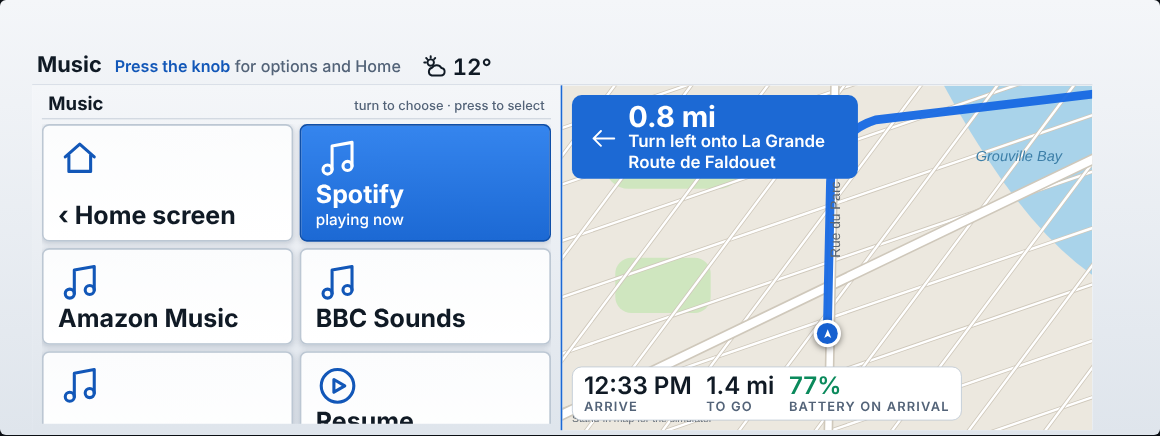
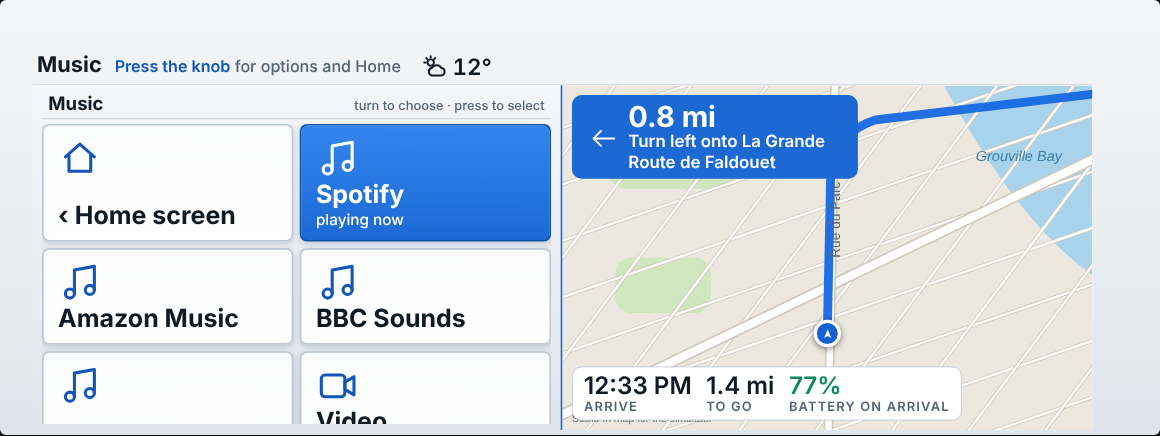
Make Settings a card menu, and fix Resume's bottom-left placement
Settings was still a scrolling list despite the earlier switch to
cards for sub-menus - it now opens as cards (Display/Car colour/
Battery/Video), matching Call and Music.

The Resume card's position was unreliable: it was simply the last
item pushed into the array, so a 2-column grid with row-major
auto-flow only puts it bottom-left when the preceding item count is
even - with an odd count (e.g. 3 apps) it lands bottom-right instead.
Verified with an isolated Playwright grid test that grid-row:-1 alone
doesn't fix this either, since a negative line only resolves against
an *explicit* grid-template-rows, which this grid never had - it was
always resolving to row 1. Fixed by computing the row count in JS and
giving the flagged card (bl:1) an explicit grid-row/column, confirmed
with 1/3/4 preceding items.

While in there: .cardbox clipped anything past the visible rows
(overflow:hidden) with no way to reach it, which would have hidden
Resume anyway for anyone with several music apps installed. Changed
to a scrolling grid that scrolls the selected card into view.

diff --git a/app/src/main/assets/i3dash/index.html b/app/src/main/assets/i3dash/index.html
@@ -130,7 +130,7 @@ aside{position:relative;padding:8px 10px;display:flex;flex-direction:column;gap:
 .mi b{font:700 26px var(--f-d);color:var(--muted);flex:none}
 .mi.on{background:linear-gradient(180deg,var(--accent2),var(--accent));border-color:var(--edge);color:var(--accent-ink)}.mi.on small,.mi.on b{color:var(--accent-ink)}
 .mi.dim{color:var(--muted);font-size:20px}
-.cardbox{display:grid;grid-template-columns:repeat(2,1fr);grid-auto-rows:1fr;gap:8px;flex:1;min-height:0;overflow:hidden}
+.cardbox{display:grid;grid-template-columns:repeat(2,1fr);grid-auto-rows:1fr;gap:8px;flex:1;min-height:0;overflow-y:auto;overflow-x:hidden}
 .card.dim{opacity:.55}
 .card.dim svg{stroke:var(--muted)}
 .toast{position:absolute;left:50%;bottom:64px;transform:translateX(-50%);z-index:10;font:600 22px var(--f-b);background:var(--panel);border:1px solid var(--accent);border-radius:12px;padding:8px 18px;white-space:nowrap}
@@ -559,8 +559,13 @@ function drawMenu(){
   if(!menu){if(!el.hidden)el.hidden=true;return}
   if(el.hidden)el.hidden=false;
   if(menu.kind==='cards'){
-    const cards=menu.items.map((it,i)=>`<div class="card${i===menu.sel?' on':''}${it.dim?' dim':''}"><svg viewBox="0 0 24 24">${ICON[it.icon]||ICON.Settings}</svg><div><div class="ct">${esc(it.label)}</div>${it.note?`<div class="cx">${esc(it.note)}</div>`:''}</div></div>`).join('');
-    H('#menu',`<div class="mt"><span>${esc(menu.title)}</span><small>turn to choose · press to select</small></div><div class="cardbox">${cards}</div>`);
+    // a card flagged bl:1 (eg. Resume) is pinned to the bottom-left cell: fix the row count
+    // explicitly and give it a definite row, since grid-row:-1 only reaches the EXPLICIT grid
+    // and ignores auto-added rows - verified with a Playwright test before shipping this.
+    const rowN=Math.ceil(menu.items.length/2);
+    const cards=menu.items.map((it,i)=>`<div class="card${i===menu.sel?' on':''}${it.dim?' dim':''}"${it.bl?` style="grid-column:1;grid-row:${rowN}"`:''}><svg viewBox="0 0 24 24">${ICON[it.icon]||ICON.Settings}</svg><div><div class="ct">${esc(it.label)}</div>${it.note?`<div class="cx">${esc(it.note)}</div>`:''}</div></div>`).join('');
+    H('#menu',`<div class="mt"><span>${esc(menu.title)}</span><small>turn to choose · press to select</small></div><div class="cardbox" style="grid-template-rows:repeat(${rowN},1fr)">${cards}</div>`);
+    const selCard=$('#menu .card.on');if(selCard)selCard.scrollIntoView({block:'nearest'});
     return;
   }
   const n=menu.items.length,first=Math.max(0,Math.min(n-MENU_ROWS,menu.sel-Math.floor(MENU_ROWS/2)));
@@ -597,13 +602,15 @@ function sectionMenu(){
 // settings: how the screen looks, the car colour, battery detail, and the odd extras
 const THEMES=['auto','day','night'],THEME_NAMES={auto:'Automatic',day:'Day',night:'Night'};
 function settingsMenu(sel){
-  const it=start(),first=it.length,t=store.get('theme','auto'),b=Math.floor(paint/4)%9,e=paint%4;
-  it.push({label:'Display',note:THEME_NAMES[t],act(){store.set('theme',THEMES[(THEMES.indexOf(t)+1)%3]);mapTheme();settingsMenu(first)}});
-  it.push({label:'Car colour',note:PAINT_NAMES[b]+' · '+BELT_NAMES[e],act(){paint=(paint+1)%36;store.set('paint',paint);paintCar();settingsMenu(first+1)}});
-  it.push({label:'Battery',more:1,note:D.soc!=null?f(D.soc)+'%':'',act:batteryMenu});
-  if(menuData(true).videos.length)it.push({label:'Video',more:1,note:'parked only',act:videoMenu});
-  it.push({label:'Close menu',act:closeMenu});
-  openMenu('Settings',it,sel==null?first:sel);
+  const t=store.get('theme','auto'),b=Math.floor(paint/4)%9,e=paint%4;
+  const cards=[{label:'‹ Home screen',icon:'Home',act:goHome}];
+  const iDisplay=cards.length;
+  cards.push({label:'Display',icon:'Display',note:THEME_NAMES[t],act(){store.set('theme',THEMES[(THEMES.indexOf(t)+1)%3]);mapTheme();settingsMenu(iDisplay)}});
+  const iColour=cards.length;
+  cards.push({label:'Car colour',icon:'Car',note:PAINT_NAMES[b]+' · '+BELT_NAMES[e],act(){paint=(paint+1)%36;store.set('paint',paint);paintCar();settingsMenu(iColour)}});
+  cards.push({label:'Battery',icon:'Battery',note:D.soc!=null?f(D.soc)+'%':'',act:batteryMenu});
+  if(menuData(true).videos.length)cards.push({label:'Video',icon:'Video',note:'parked only',act:videoMenu});
+  openCardMenu('Settings',cards,sel==null?1:sel);
 }
 // battery detail: a plain read-out, nothing here to choose
 function batteryMenu(){
@@ -689,7 +696,7 @@ function musicTopCards(rows){
   else rows.forEach((label,i)=>{const name=String(label).replace(/ \(playing\)$/,'');
     cards.push({label:name,icon:'Music',note:/\(playing\)$/.test(label)?'playing now':'',act(){waiting(name);N.musicPick(i)}})});
   const m=D.media;
-  if(m&&m.title)cards.push({label:'Resume',icon:'Resume',note:m.title,act:resumeMenu});
+  if(m&&m.title)cards.push({label:'Resume',icon:'Resume',note:m.title,bl:1,act:resumeMenu});
   if(menuData().videos.length)cards.push({label:'Video',icon:'Video',note:'parked only',act:videoMenu});
   openCardMenu('Music',cards,cards.length>1?1:0);
 }
@@ -791,7 +798,9 @@ const ICON={
   Voice:'<path d="M9 11a3 3 0 0 1 6 0v1a3 3 0 0 1-6 0zM6 11a6 6 0 0 0 12 0M12 17v3M9 20h6"/>',
   Keyboard:'<rect x="3" y="7" width="18" height="11" rx="2"/><path d="M6 11h1M10 11h1M14 11h1M18 11h1M6 14.5h12"/>',
   Resume:'<circle cx="12" cy="12" r="9"/><path d="M10 8.5l6 3.5-6 3.5z"/>',
-  Video:'<rect x="3" y="6" width="13" height="12" rx="2"/><path d="M16 10l5-3v10l-5-3z"/>'
+  Video:'<rect x="3" y="6" width="13" height="12" rx="2"/><path d="M16 10l5-3v10l-5-3z"/>',
+  Display:'<rect x="3" y="4" width="18" height="13" rx="2"/><path d="M8 20h8M12 17v3"/>',
+  Battery:'<rect x="2.5" y="8" width="17" height="8" rx="1.5"/><path d="M19.5 10.5h2v3h-2z" fill="currentColor"/><path d="M6 10.5v3M9 10.5v3" stroke-width="1.6"/>'
 };
 const CARDS=['Navigate','Call','Alerts','Music','Car','Journey','Chargers','Settings'];
 function cardLine(k){
@@ -819,7 +828,7 @@ function drawHome(){
 }
 function openCard(k){
   home=false;page=PAGES.indexOf(k==='Navigate'?'Map':k==='Settings'?'Info':k);showPage();
-  if(D.call&&k==='Call')sectionMenu();else if(k==='Navigate')navMenu();else if(k==='Call')callMenu();else if(k==='Chargers'&&chargers.length)chargersMenu();else if(k==='Music'&&!(D.media&&D.media.title))musicMenu();
+  if(D.call&&k==='Call')sectionMenu();else if(k==='Navigate')navMenu();else if(k==='Call')callMenu();else if(k==='Chargers'&&chargers.length)chargersMenu();else if(k==='Music')musicMenu();
 }
 window.i3hidden=function(){closeMenu()};
 setWxIcon();
